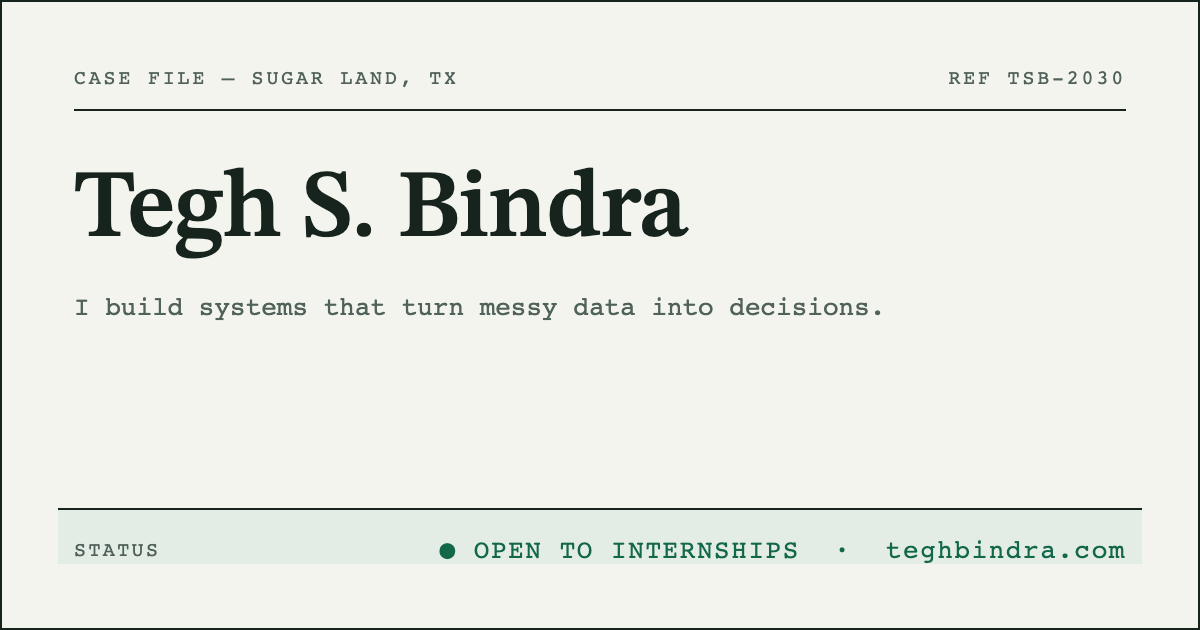
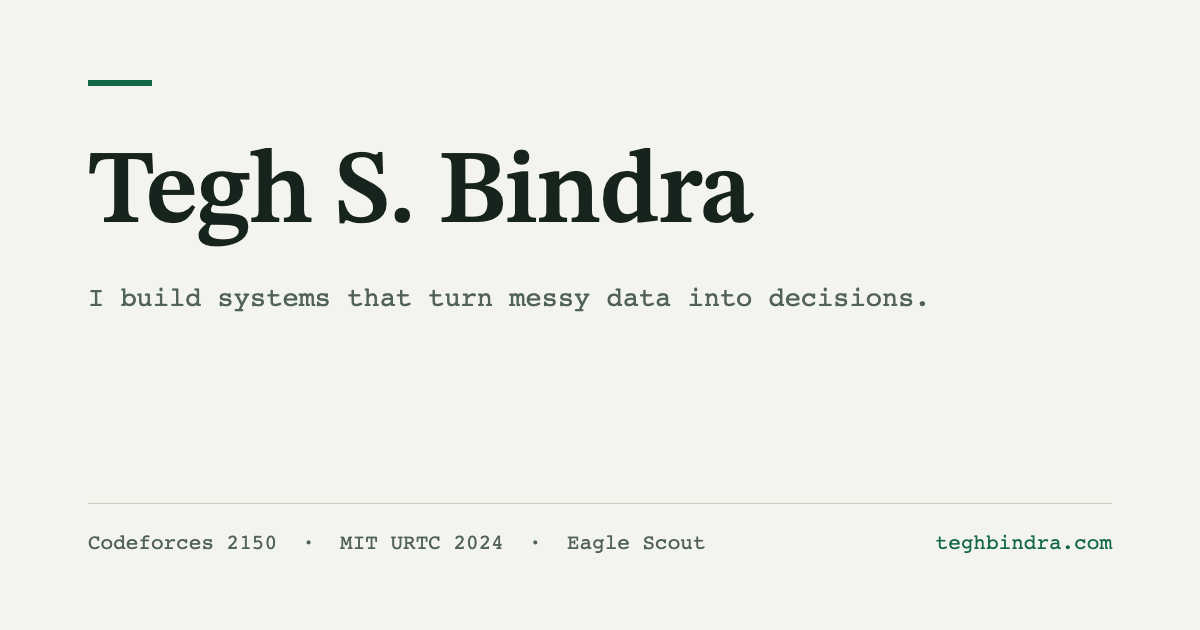
Drop the case-file conceit: single-column hero + quiet proof strip
The ledger card read as self-congratulatory. Hero is now one column
with the headline and intro; credentials live in a one-line mono
strip under it. Wordmark changed from TEGHBINDRA.COM to the name in
serif. OG image redesigned to match.

diff --git a/src/styles/global.css b/src/styles/global.css
@@ -42,16 +42,18 @@ a:hover { text-decoration-color: var(--green); color: var(--green); }
   padding: 1.1rem 0; border-bottom: 1px solid var(--line);
   font-family: var(--mono); font-size: 0.8125rem; letter-spacing: 0.04em;
 }
-.top .site { font-weight: 500; text-decoration: none; }
+.top .site {
+  font-family: var(--serif); font-weight: 600; font-size: 1.15rem;
+  letter-spacing: 0; text-decoration: none;
+}
 .top nav { display: flex; gap: 1.4rem; flex-wrap: wrap; }
 .top nav a { text-decoration: none; color: var(--ink-soft); }
 .top nav a:hover { color: var(--green); }
 
 /* ---------- hero ---------- */
 .hero {
-  display: grid; grid-template-columns: minmax(0, 7fr) minmax(0, 5fr);
-  gap: clamp(2rem, 5vw, 4.5rem); align-items: start;
-  padding: clamp(3rem, 8vh, 5.5rem) 0 clamp(3rem, 8vh, 5rem);
+  max-width: 46rem;
+  padding: clamp(3.5rem, 10vh, 6.5rem) 0 clamp(2.5rem, 6vh, 4rem);
 }
 .eyebrow {
   font-family: var(--mono); font-size: 0.75rem; letter-spacing: 0.14em;
@@ -70,54 +72,25 @@ a:hover { text-decoration-color: var(--green); color: var(--green); }
 }
 .hero .where .dot { color: var(--line); }
 
-/* ---------- the ledger (signature element) ---------- */
-.ledger {
-  background: var(--card); border: 1px solid var(--ink);
-  box-shadow: 4px 4px 0 var(--line);
-  font-family: var(--mono); font-size: 0.85rem;
+/* ---------- proof strip ---------- */
+.proof {
+  list-style: none; padding: 0.9rem 0; margin: 0 0 clamp(1.5rem, 4vh, 2.5rem);
+  border-top: 1px solid var(--ink); border-bottom: 1px solid var(--line);
+  display: flex; flex-wrap: wrap; gap: 0.5rem 0;
+  font-family: var(--mono); font-size: 0.78rem; letter-spacing: 0.03em;
+  color: var(--ink-soft);
 }
-.ledger-head {
-  display: flex; justify-content: space-between; gap: 1rem;
-  padding: 0.7rem 1rem; border-bottom: 1px solid var(--ink);
-  font-size: 0.72rem; letter-spacing: 0.12em; text-transform: uppercase;
+.proof li { display: flex; align-items: center; }
+.proof li + li::before {
+  content: ""; width: 1px; height: 0.9em; background: var(--line);
+  margin: 0 1.1rem;
 }
-.ledger-head .ref { color: var(--ink-soft); }
-.ledger-rows { list-style: none; padding: 0.45rem 1rem 0.65rem; }
-.ledger-rows li {
-  display: flex; align-items: baseline; gap: 0.75rem; padding: 0.5rem 0;
-  animation: row-in 0.45s both;
-}
-.ledger-rows li:nth-child(1) { animation-delay: 0.15s; }
-.ledger-rows li:nth-child(2) { animation-delay: 0.3s; }
-.ledger-rows li:nth-child(3) { animation-delay: 0.45s; }
-.ledger-rows li:nth-child(4) { animation-delay: 0.6s; }
-.ledger-rows li:nth-child(5) { animation-delay: 0.75s; }
-.ledger-rows .k { color: var(--ink-soft); white-space: nowrap; }
-.ledger-rows .leader {
-  flex: 1; min-width: 1.5rem;
-  border-bottom: 1px dotted var(--line); transform: translateY(-0.3em);
-}
-.ledger-rows .v { text-align: right; font-weight: 500; }
-.ledger-rows .v small { display: block; font-weight: 400; color: var(--ink-soft); font-size: 0.72rem; }
-.verdict {
-  display: flex; align-items: center; gap: 0.75rem;
-  border-top: 1px solid var(--ink); padding: 0.8rem 1rem;
-  background: var(--green-wash); animation: row-in 0.45s 1s both;
-}
-.verdict .k { letter-spacing: 0.12em; text-transform: uppercase; font-size: 0.72rem; color: var(--ink-soft); }
-.verdict .leader { flex: 1; border-bottom: 1px dotted var(--green); transform: translateY(-0.2em); }
-.verdict .v { color: var(--green); font-weight: 600; letter-spacing: 0.06em; display: flex; align-items: center; gap: 0.5rem; }
-.verdict .lamp { width: 9px; height: 9px; border-radius: 50%; background: var(--green); }
-.ledger-note {
-  margin-top: 0.7rem; font-family: var(--mono); font-size: 0.72rem;
-  color: var(--ink-soft); line-height: 1.5;
-}
-@keyframes row-in {
-  from { opacity: 0; transform: translateY(6px); }
-  to { opacity: 1; transform: none; }
+.proof .open { color: var(--green); font-weight: 500; }
+.proof .lamp {
+  width: 8px; height: 8px; border-radius: 50%; background: var(--green);
+  margin-right: 0.5rem;
 }
 @media (prefers-reduced-motion: reduce) {
-  .ledger-rows li, .verdict { animation: none; }
   html { scroll-behavior: auto; }
 }
 
@@ -184,12 +157,6 @@ footer .pitch { color: var(--ink-soft); max-width: var(--measure); }
   display: flex; justify-content: space-between; gap: 1rem; flex-wrap: wrap;
   font-family: var(--mono); font-size: 0.72rem; color: var(--ink-soft);
 }
-.lights { display: inline-flex; gap: 5px; align-items: center; }
-.lights i { width: 7px; height: 7px; border-radius: 50%; display: inline-block; }
-.lights .g { background: var(--green); }
-.lights .a { background: var(--amber); }
-.lights .r { background: var(--red); }
-
 /* ---------- article ---------- */
 .post { max-width: var(--measure); margin: 0 auto; padding: clamp(2.5rem, 8vh, 5rem) 0 3rem; }
 .post h1 {
@@ -222,7 +189,6 @@ footer .pitch { color: var(--ink-soft); max-width: var(--measure); }
 
 /* ---------- responsive ---------- */
 @media (max-width: 880px) {
-  .hero { grid-template-columns: 1fr; }
   .section-grid { grid-template-columns: 1fr; gap: 1.2rem; }
   .section-label { position: static; }
   .honors { grid-template-columns: 1fr; }

diff --git a/src/data/site.ts b/src/data/site.ts
@@ -7,15 +7,6 @@ export const contact = {
   resume: '/resume.pdf',
 };
 
-// The hero ledger — every value here is real and verifiable.
-export const ledger = [
-  { label: 'Codeforces', value: 'Master · 2150', note: 'top 3% worldwide' },
-  { label: 'Research', value: 'Published — MIT URTC 2024', note: 'first author' },
-  { label: 'Shipped', value: 'underwriting-copilot.pages.dev', note: 'live', href: 'https://underwriting-copilot.pages.dev' },
-  { label: 'Harvard HSRC', value: '2nd of 18 teams', note: 'technical lead' },
-  { label: 'Scouting', value: 'Eagle Scout', note: 'top ~5% nationally' },
-];
-
 export type Project = {
   slug: string;
   name: string;
